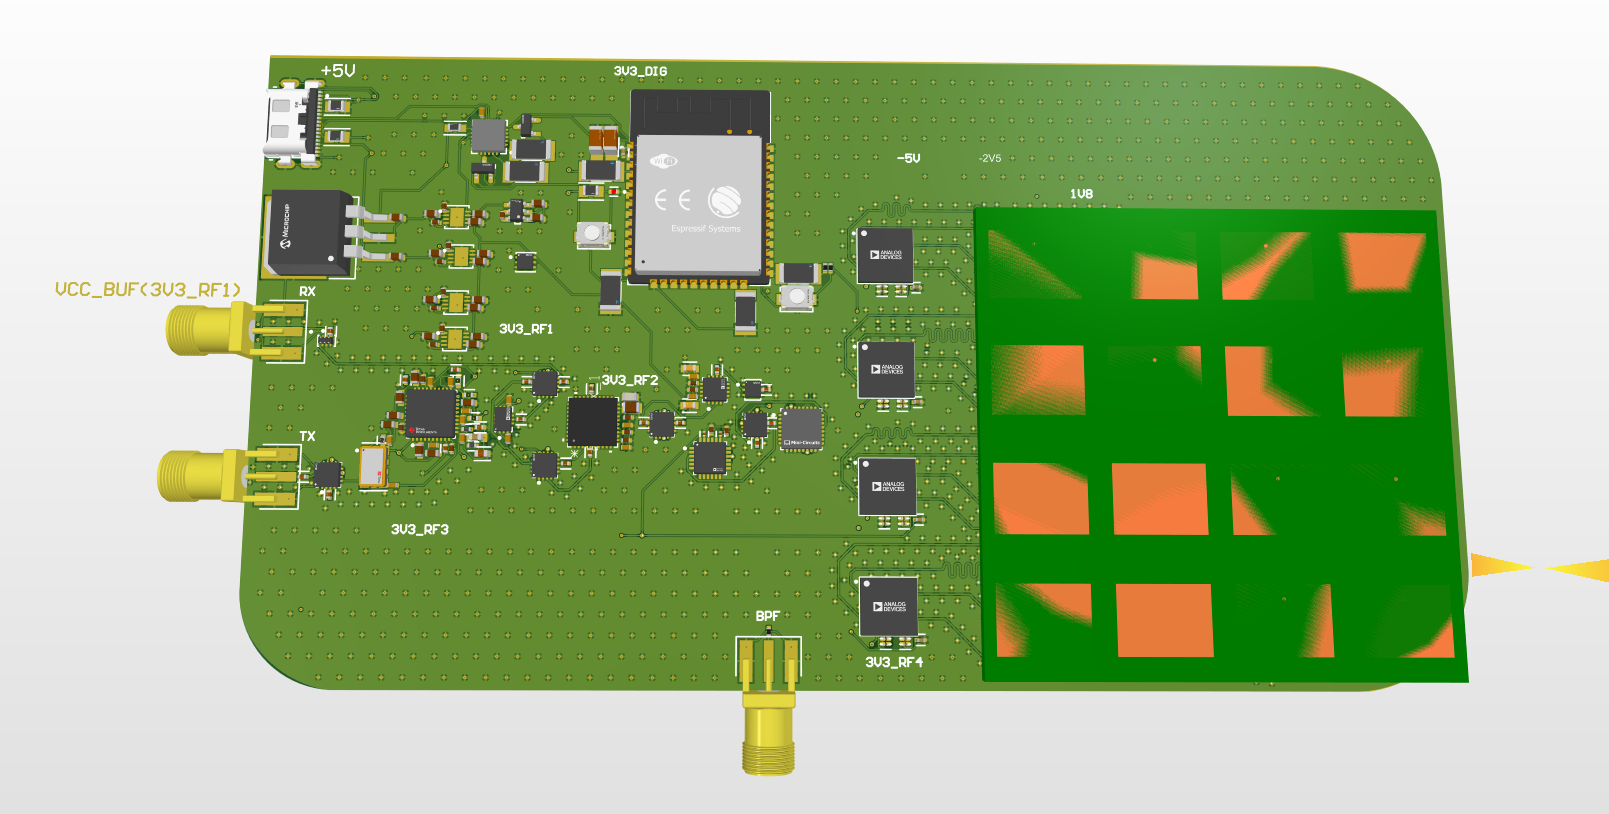
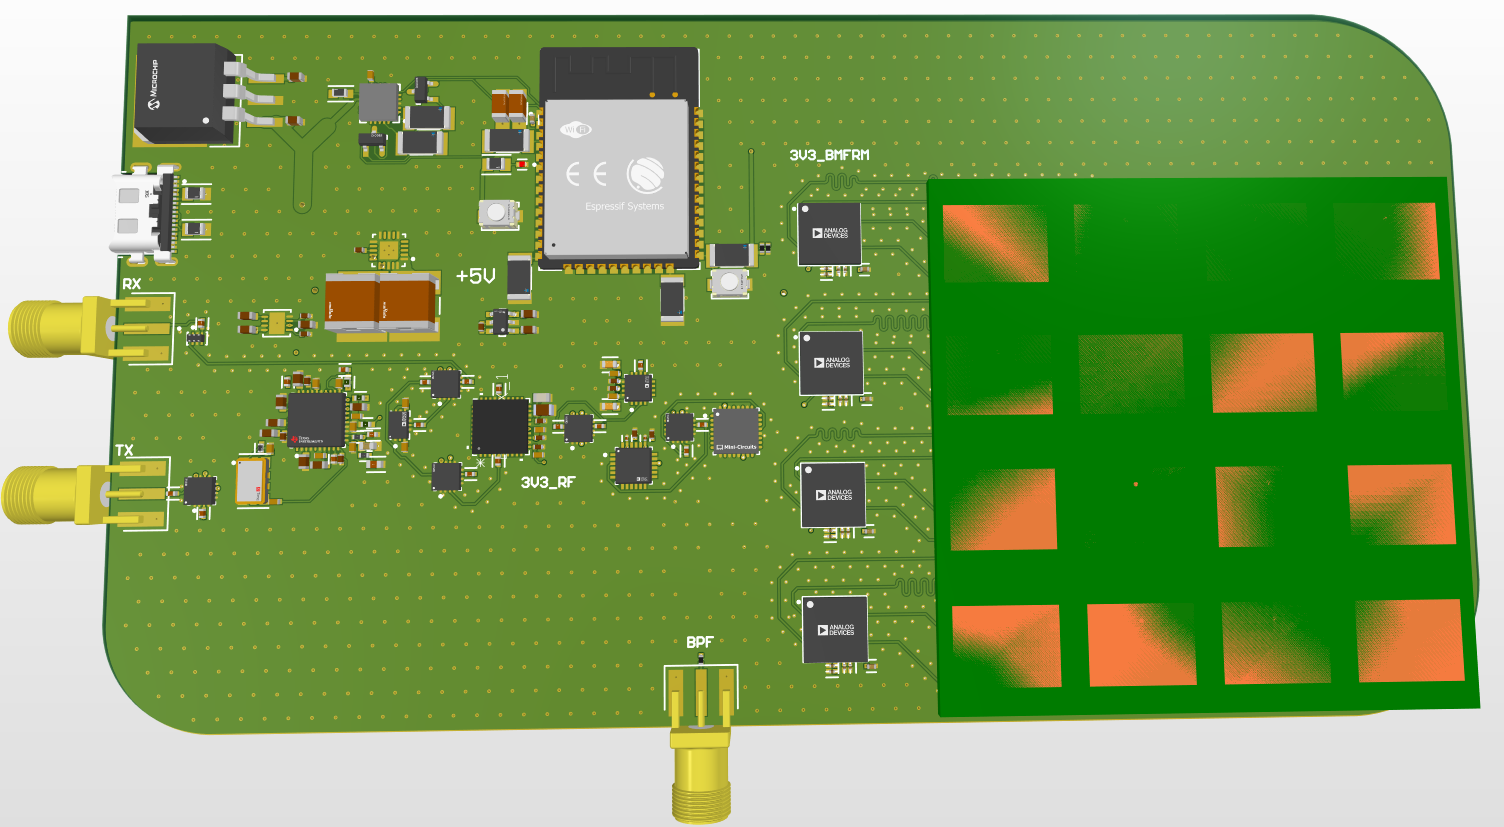
RADAR: completed PCB 2D/3D layout screenshots, voltage-tunable BPF control
- Replace 3D render and 2D layout with final board screenshots from the spreadsheet; add angled 3D view
- Document the ADMV8416 tuning input: external adjustable DC supply up to 12 V via bottom-edge SMA
- Mark layout, power tree and trace-width sizing as complete; update next steps to fabrication

Claude-Session: https://claude.ai/code/session_01HFpYuPn3ku627FE1Wqrqwy

diff --git a/radar.html b/radar.html
@@ -258,10 +258,28 @@
       switches and distributes.
     </p>
 
+    <p>
+      The board layout is now complete, with the final power tree in place and every power trace sized for the current it
+      carries (see the trace-width table below).
+    </p>
+
     <figure class="shot">
-      <img src="images/radar/pcb-3d-render.png" alt="3D render of the RF transceiver PCB with the 4x4 patch array on the right" />
-      <figcaption><b>Current 3D render of the board in Altium Designer.</b> The 4&times;4 patch array occupies the right side, with the four Analog Devices beamformer ICs lined up just to its left, one per row of elements. The RF chain runs through the middle of the board, the ESP32 module and USB-C power and programming sit along the top edge, and three SMA connectors break out the TX and RX IF ports to the SDR and the control voltage for the tunable bandpass filter. Silkscreen labels mark the separate power domains: a 5&nbsp;V USB-C input feeding an isolated digital 3.3&nbsp;V rail, four independent RF 3.3&nbsp;V rails, and &minus;5&nbsp;V, &minus;2.5&nbsp;V and 1.8&nbsp;V rails.</figcaption>
+      <img src="images/radar/pcb-3d-render.png" alt="Top-down 3D render of the completed RF transceiver PCB with the 4x4 patch array on the right" />
+      <figcaption><b>Completed board, top-down 3D render in Altium Designer.</b> The 4&times;4 patch array occupies the right side, with the four Analog Devices beamformer ICs lined up just to its left, one per row of elements. The RF chain (TCXO, LO, mixer, T/R switches, bandpass filter, PA, LNA and 4-way splitter/combiner) runs through the middle, and the ESP32 module, USB-C connector and LDOs sit along the top edge. The two SMA connectors on the left edge carry the TX and RX IF to the SDR; the SMA on the bottom edge, labeled BPF, is the tuning-voltage input for the bandpass filter. Silkscreen labels mark the power domains: the +5&nbsp;V input, 3V3_BMFRM for the beamformers, and 3V3_RF for the rest of the RF chain.</figcaption>
     </figure>
+
+    <figure class="shot">
+      <img src="images/radar/pcb-3d-angled.png" alt="Angled 3D render of the completed RF transceiver PCB showing the SMA connectors and component heights" />
+      <figcaption><b>Angled view of the same board.</b> Shows component heights and the three edge-launch SMA connectors: RX and TX on the left, and the BPF tuning input on the bottom edge where an external adjustable DC supply plugs in. The patch array layer sits on top of the beamformer section on the right.</figcaption>
+    </figure>
+
+    <h3>Tunable bandpass filter control</h3>
+    <p>
+      The ADMV8416 bandpass filter is voltage tunable: its center frequency is set by a DC control voltage rather than
+      fixed at layout time. That control voltage comes from an external adjustable DC supply of up to 12&nbsp;V, which
+      connects through the SMA connector on the bottom edge of the board. Keeping it external means the passband can be
+      trimmed onto 10.5&nbsp;GHz on the bench, and retuned later without changing the board.
+    </p>
 
     <h3>Power tree</h3>
     <p>
@@ -445,7 +463,7 @@
           <tr>
             <td>Bandpass filter</td>
             <td><a class="tlink" href="https://www.analog.com/media/en/technical-documentation/data-sheets/admv8416.pdf" target="_blank" rel="noopener"><code>ADMV8416</code></a><br />tunable BPF (MMIC)</td>
-            <td>Strips the mixer&rsquo;s unwanted products and leaves only the 10.5&nbsp;GHz signal. 5&nbsp;V part with selectable bands, so the passband can be tuned through its SMA control input rather than fixed at layout time.</td>
+            <td>Strips the mixer&rsquo;s unwanted products and leaves only the 10.5&nbsp;GHz signal. 5&nbsp;V part with selectable bands. It is voltage tunable: an external adjustable DC supply (up to 12&nbsp;V) on the bottom-edge SMA connector sets the center frequency, so the passband is tuned on the bench rather than fixed at layout time.</td>
             <td>&minus;8 dB</td>
           </tr>
           <tr>
@@ -513,7 +531,7 @@
           <tr>
             <td>SMA connectors</td>
             <td>50&nbsp;&Omega; coax</td>
-            <td>RF connections to the software-defined radio for the TX and RX IF paths, plus the control voltage for the tunable bandpass filter.</td>
+            <td>RF connections to the software-defined radio for the TX and RX IF paths (left edge), plus the bottom-edge SMA that brings in the bandpass filter&rsquo;s tuning voltage from an external adjustable DC supply of up to 12&nbsp;V.</td>
           </tr>
         </tbody>
       </table>
@@ -521,7 +539,7 @@
 
     <h2>Layer Stackup and RF Routing Choices</h2>
     <p>
-      The antenna array, RF transceiver and microcontroller subsystems are being integrated onto a single board in
+      The antenna array, RF transceiver and microcontroller subsystems are integrated onto a single, now-complete board in
       Altium Designer. The stackup is 8 layers, arranged to keep the RF, digital and power domains isolated from each other.
     </p>
     <p>
@@ -532,7 +550,7 @@
     </p>
     <figure class="shot">
       <img src="images/radar/pcb-layout-routing.png" alt="Altium 2D layout view of the board showing length-matched serpentine feed lines" />
-      <figcaption><b>Layout view of the same board.</b> The four beamformers (U_Beamformer1&ndash;4) on the right each fan out to a row of four patch elements. The serpentine meanders on those feed lines are the length matching: every path from a beamformer to its element is tuned to the same electrical length, so the only phase difference between elements is the one the beamformer deliberately applies. The dense grid of stitching vias ties the ground pours together across layers for isolation and a clean return path.</figcaption>
+      <figcaption><b>Completed 2D layout of the same board.</b> The four beamformers (U_Beamformer1&ndash;4) on the right each fan out to a row of four patch elements. The serpentine meanders on those feed lines are the length matching: every path from a beamformer to its element is tuned to the same electrical length, so the only phase difference between elements is the one the beamformer deliberately applies. The dense grid of stitching vias ties the ground pours together across layers for isolation and a clean return path. On the left, the labeled RF chain runs from the TX/RX connectors through U_TR_Switch_5, the LO/mixer, the 10.5&nbsp;GHz bandpass filter (U_BPF), the PA and LNA and on to the combiner; the BPF connector footprint sits on the bottom edge.</figcaption>
     </figure>
 
     <h2>Power Budget Analysis</h2>
@@ -778,7 +796,7 @@
 
     <h2>Where It&rsquo;s Going</h2>
     <p>
-      Next steps are finishing the Altium layout for fabrication, then validating the simulated patterns against bench
+      With the layout, power tree and trace-width sizing complete, next steps are sending the board out for fabrication and assembly, then validating the simulated patterns against bench
       measurements in an anechoic chamber. After that, testing the RF PCB with measurement tools such as VNAs and spectrum
       analyzers. Then, integrating the array with the transceiver board to characterize the full transmit and receive chain
       end to end.
